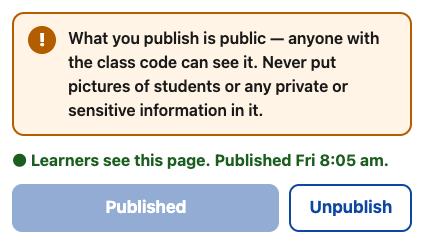
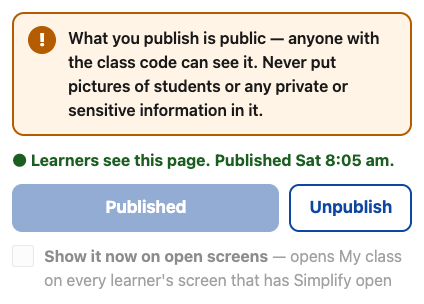
guide: a new class page shows at once; the coach's Show it now; what the stream sends

diff --git a/public/coach/guide.html b/public/coach/guide.html
@@ -369,9 +369,18 @@
           (<em>Nothing from your coach yet</em>). Undo publishes it again.</li>
         <li>Deleting a page does not unpublish it: learners keep the published
           copy until you unpublish or publish another page.</li>
-        <li>Learners' devices pick up the change the next time they check,
-          with internet: each time My class opens, and when the menu shows or
-          the app comes back to the front (at most every 10 minutes).</li>
+        <li>With internet, a learner who has <strong>My class</strong> open
+          sees the new page at once, from its first screen. Everyone else sees
+          it the next time they open My class.</li>
+        <li><strong>Show it now on open screens</strong>, under Publish: tick
+          it before you publish, and every learner's screen that has Simplify
+          open right now jumps to My class and shows the page — whatever tool
+          it was on. Use it when the whole class should look together. It is
+          off unless you tick it, and goes off again after each publish.
+          Devices that are closed or asleep for more than 5 minutes are not
+          disturbed; they see the page the next time they open My class. You
+          won't see how many screens it reached: learners' devices never
+          report back.</li>
       </ul>
       <figure>
         <a href="/coach/img/guide/publish.png"><img src="/coach/img/guide/publish.png" width="1280" height="800" loading="lazy"
@@ -391,8 +400,8 @@
         class code can see it. Never put pictures of students or any private
         or sensitive information in it.</blockquote>
       <figure>
-        <a href="/coach/img/guide/public-warning.png"><img src="/coach/img/guide/public-warning.png" width="424" height="244" loading="lazy"
-          alt="The warning beside Publish, with an exclamation mark: What you publish is public — anyone with the class code can see it. Never put pictures of students or any private or sensitive information in it."></a>
+        <a href="/coach/img/guide/public-warning.png"><img src="/coach/img/guide/public-warning.png" width="424" height="304" loading="lazy"
+          alt="The warning beside Publish, with an exclamation mark: What you publish is public — anyone with the class code can see it. Never put pictures of students or any private or sensitive information in it. Under the buttons, the Show it now on open screens tick box."></a>
         <figcaption>The warning, with Publish</figcaption>
       </figure>
       <h3>Why</h3>

diff --git a/public/guide/my-class.html b/public/guide/my-class.html
@@ -12,6 +12,7 @@
   <link rel="icon" href="/favicon.svg" type="image/svg+xml">
   <link rel="apple-touch-icon" href="/img/icons/apple-touch-icon.png">
   <link rel="stylesheet" href="/css/guide.css">
+  <script type="module" src="/js/guide-live.js"></script>
 </head>
 
 <body>
@@ -80,9 +81,11 @@
       <li><strong>Next ▶</strong> shows the next screen, <strong>◀
           Back</strong> the one before. <strong>✔ All done</strong> on the
         last screen goes back to the menu.</li>
-      <li>With internet, the app looks for a new page now and then, and each
-        time My class opens. Without internet, it shows the copy it
-        saved.</li>
+      <li>With internet, a new page from the coach shows as soon as it is
+        published, if My class is open. The coach can also choose to open My
+        class at once on every screen that has Simplify open — for example,
+        when the whole class should look together. Without internet, it shows
+        the copy it saved.</li>
       <li>A video from the coach never plays by itself. Tap
         <strong>▶</strong>.</li>
       <li><strong>Nothing from your coach yet</strong>: the class has no page
@@ -98,8 +101,10 @@
       <a class="anchor-link" href="#what-it-sends" aria-label="Link to this section">🔗</a></h2>
 
     <p>To get the page, the app sends only the class code — and, like any
-      website, the device's internet address. Nothing the student types or
-      taps is sent.</p>
+      website, the device's internet address. While Simplify is on screen it
+      also listens for a new page, again with only the class code. Nothing
+      the student types or taps is sent, and nobody — not even the coach —
+      can see who has the app open.</p>
 
     <p>A YouTube video shows as a card: <strong>Watch on YouTube (needs the
         internet)</strong>. Nothing loads from YouTube until someone taps it.

diff --git a/public/guide/privacy.html b/public/guide/privacy.html
@@ -12,6 +12,7 @@
   <link rel="icon" href="/favicon.svg" type="image/svg+xml">
   <link rel="apple-touch-icon" href="/img/icons/apple-touch-icon.png">
   <link rel="stylesheet" href="/css/guide.css">
+  <script type="module" src="/js/guide-live.js"></script>
 </head>
 
 <body>
@@ -35,8 +36,12 @@
 
     <p>Only on a device that follows a class. The app downloads the class's
       page, with its pictures and videos. To do that it sends only the class
-      code — and, like any website, the device's internet address. Nothing
-      the student types or taps is sent.</p>
+      code — and, like any website, the device's internet address. While
+      Simplify is on screen, it keeps listening for a new page from the
+      coach, again with only the class code: no account, no ID for the
+      device, nothing written back. Nothing the student types or taps is
+      sent, and nobody — not even the coach — can see who has the app
+      open.</p>
 
     <p>A YouTube video loads nothing until someone taps it. After the tap,
       YouTube (Google) gets the device's internet address and which video is
